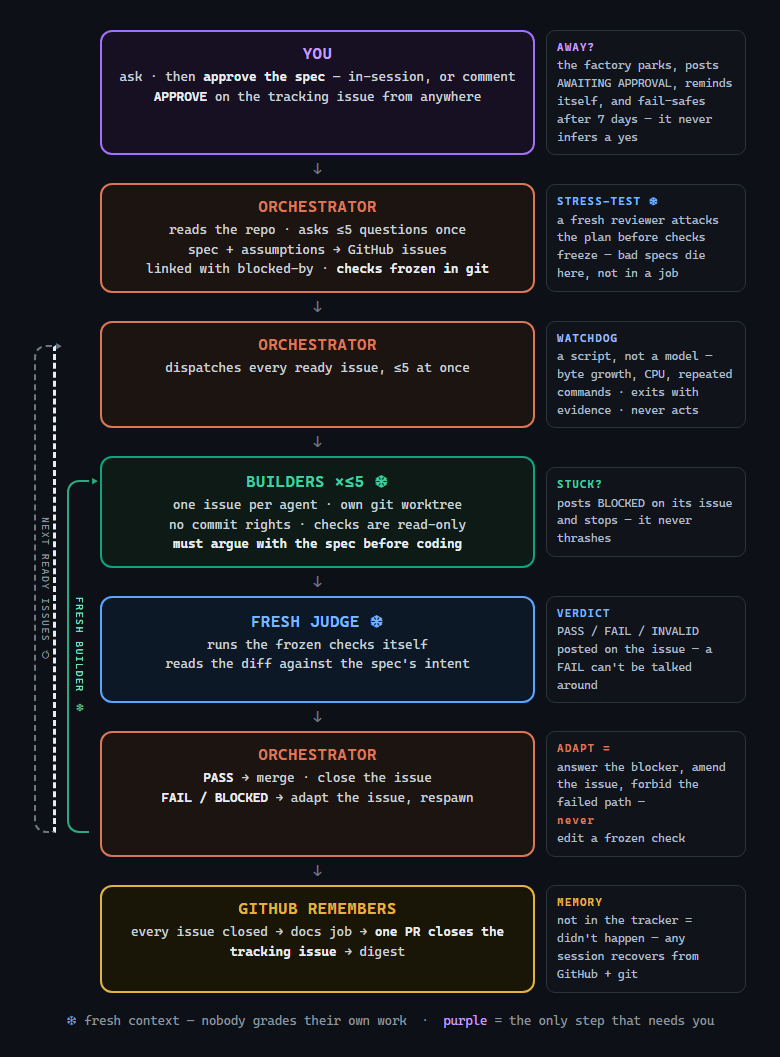
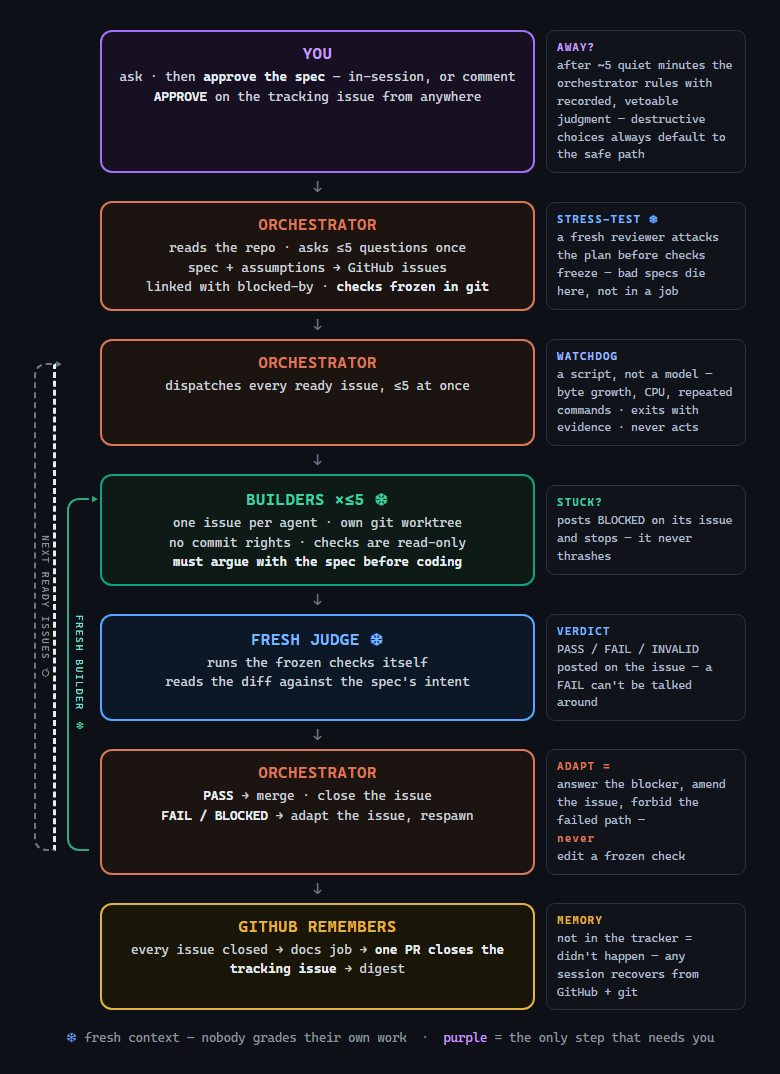
docs: diagram AWAY note reflects 5-minute autonomy (last stale artifact from run #48 audit)

diff --git a/assets/architect-flow.html b/assets/architect-flow.html
@@ -39,7 +39,7 @@
       <div class="txt">ask · then <b>approve the spec</b> — in-session, or comment
       <b>APPROVE</b> on the tracking issue from anywhere</div>
     </div>
-    <div class="note n-you" style="grid-row:1;"><b>AWAY?</b>the factory parks, posts AWAITING APPROVAL, reminds itself, and fail-safes after 7 days — it never infers a yes</div>
+    <div class="note n-you" style="grid-row:1;"><b>AWAY?</b>after ~5 quiet minutes the orchestrator rules with recorded, vetoable judgment — destructive choices always default to the safe path</div>
     <div class="dn" style="grid-row:2;">↓</div>
     <div class="bx orch" style="grid-row:3;">
       <div class="who">ORCHESTRATOR</div>
